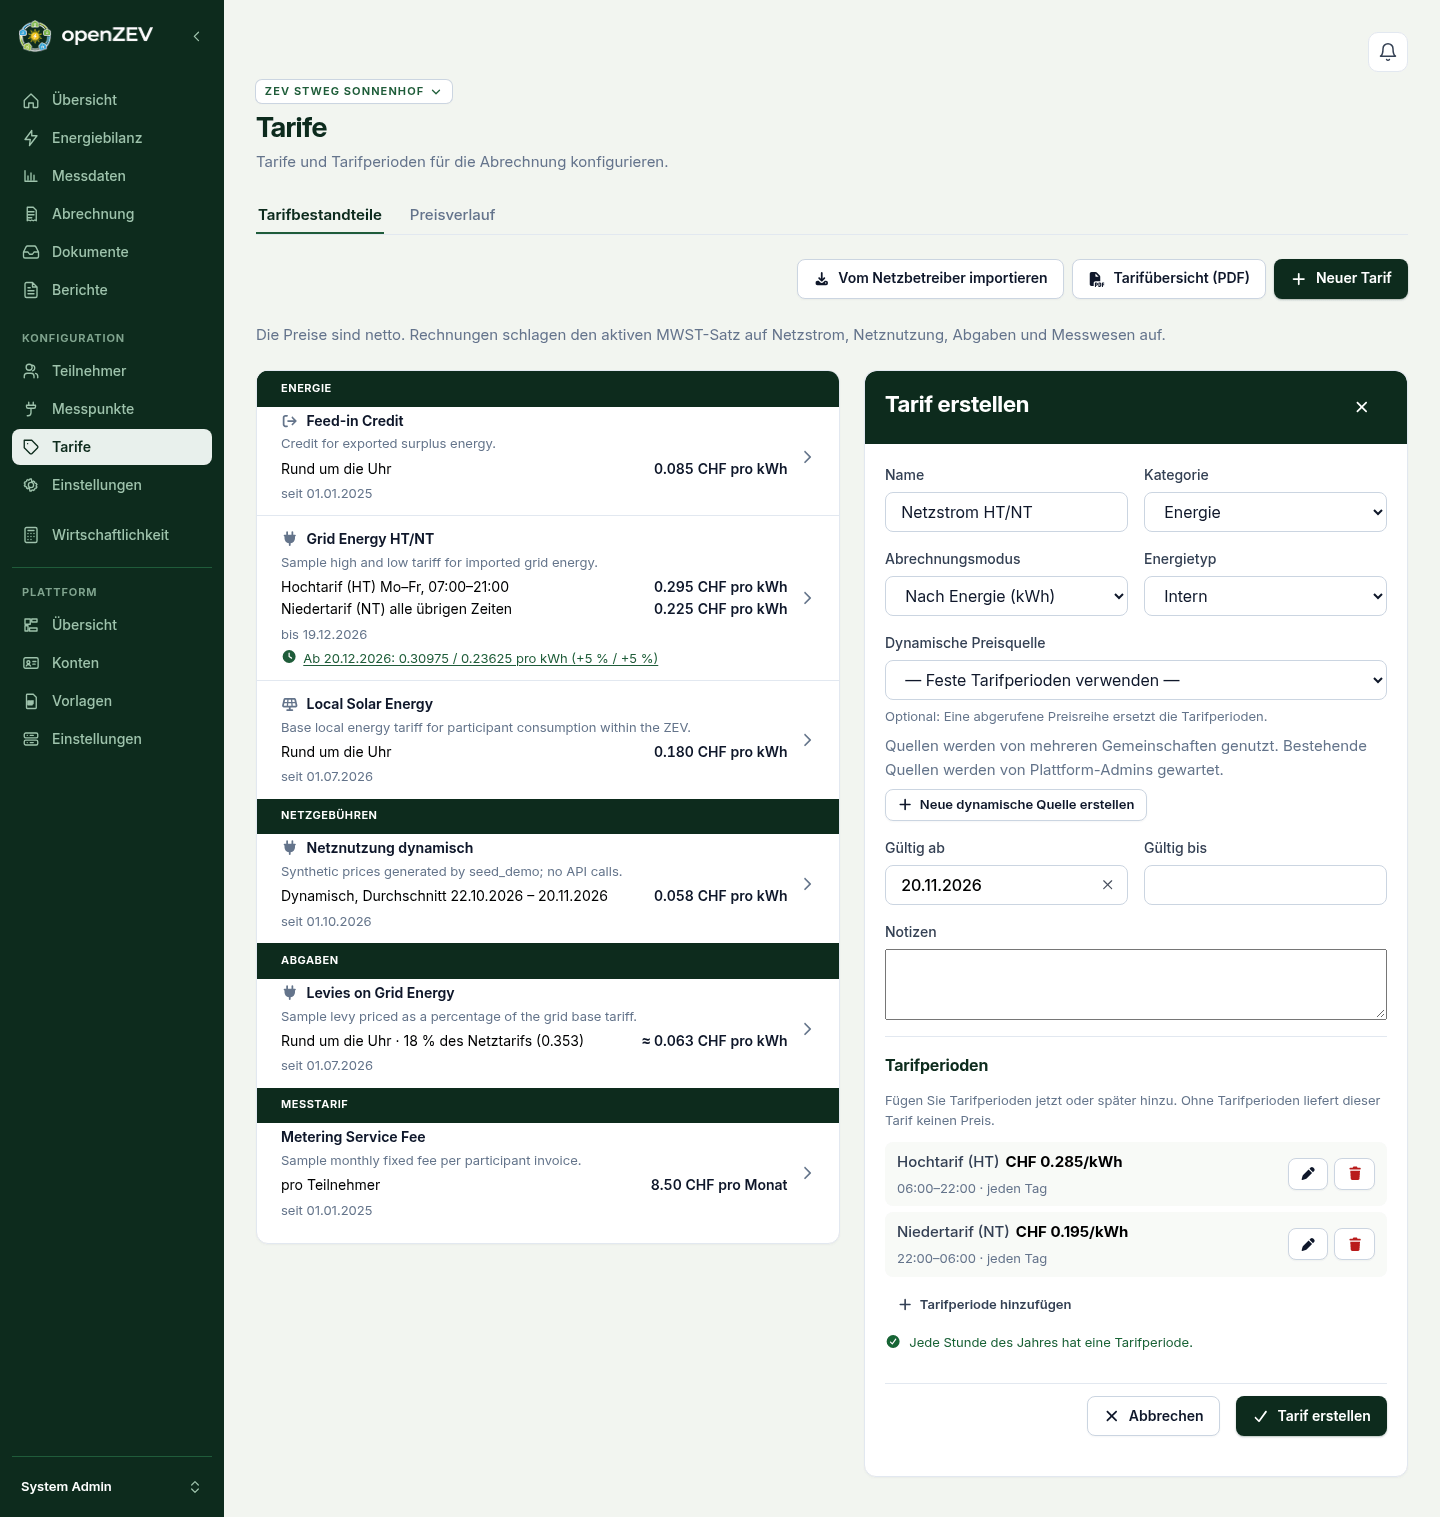
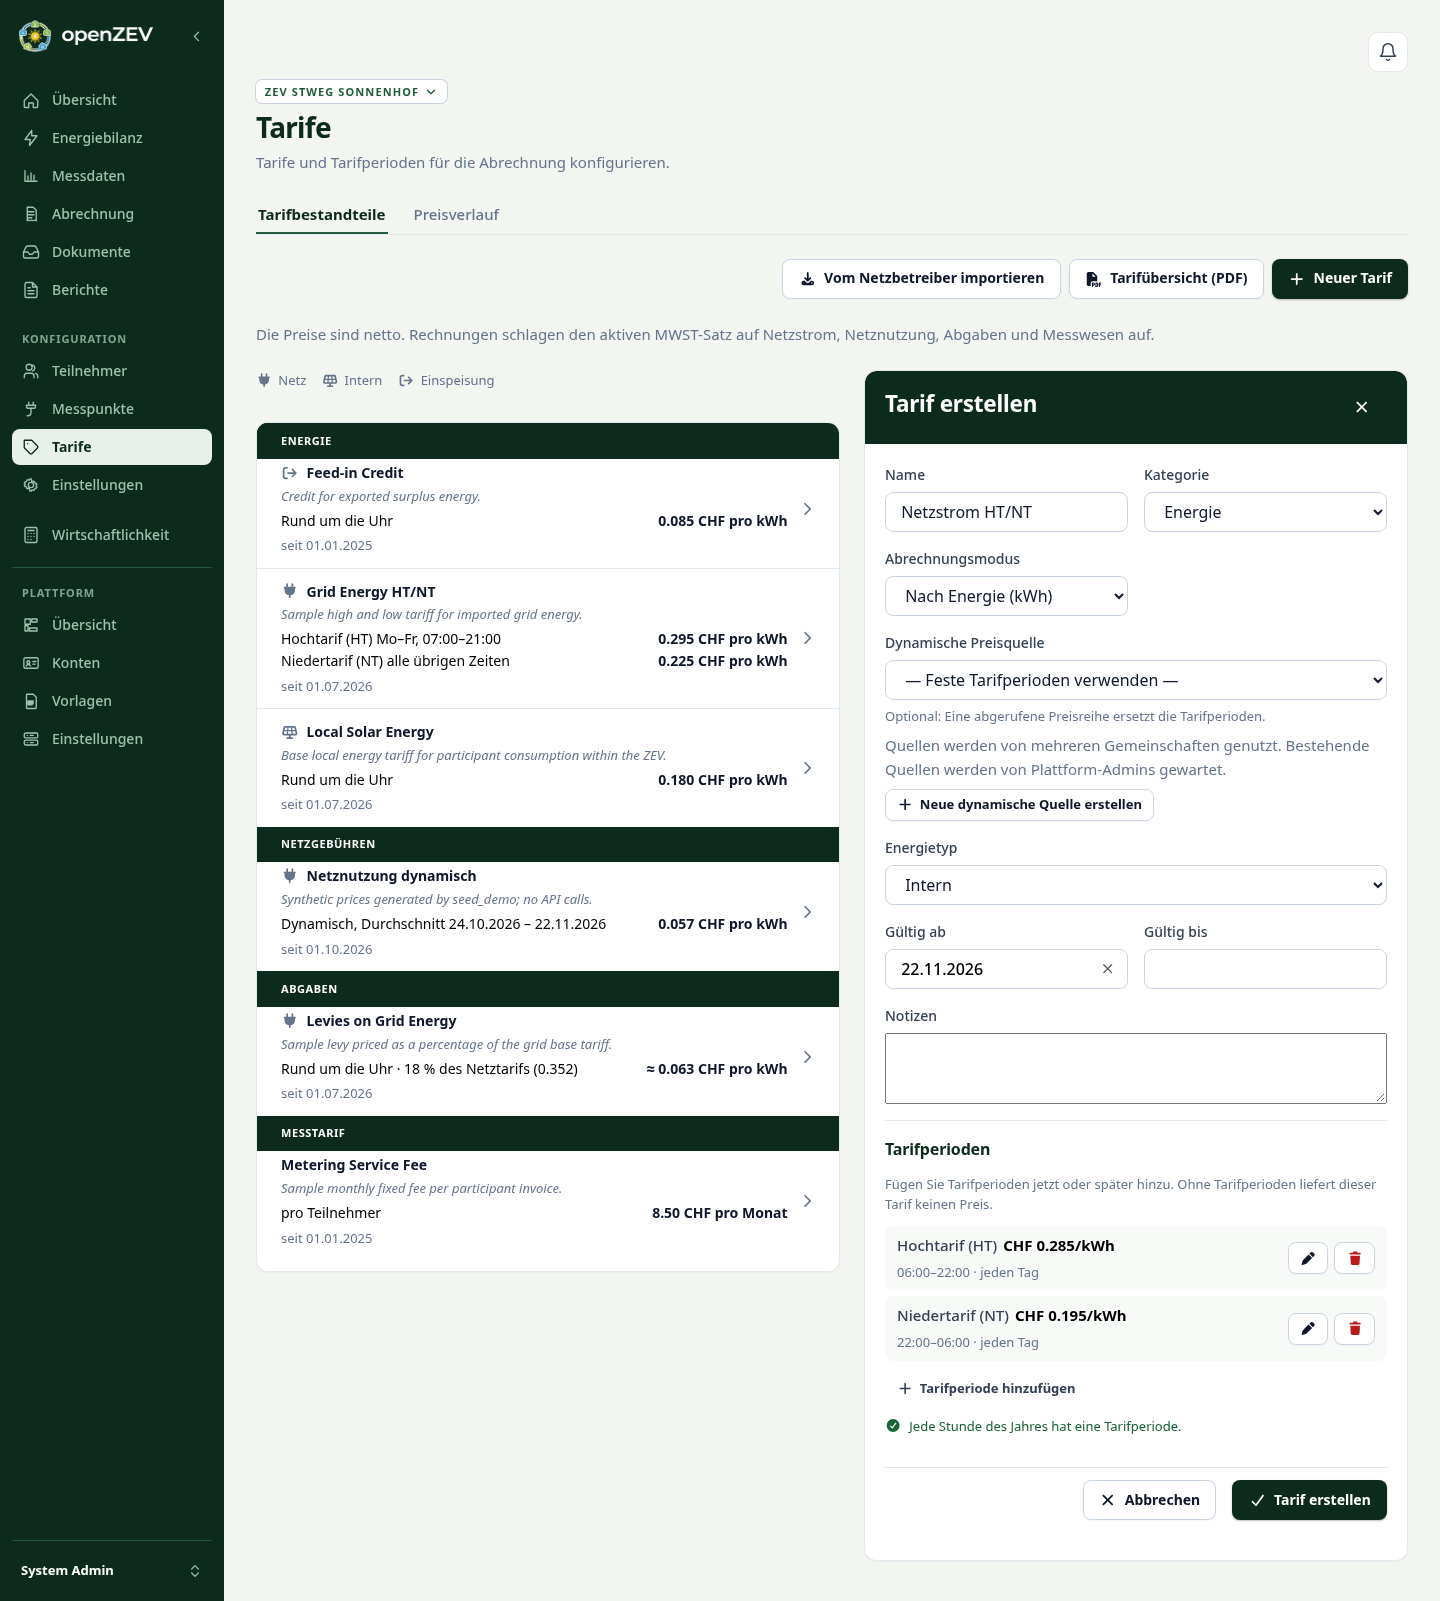
fix(tariffs): put the dynamic source before the energy type it sets
Picking a dynamic source sets the energy type, but the create form showed
the energy type above it, so a field changed under the reader's eyes.
Order the form source first, then energy type (on its own row), then the
minimum price and the double-counting warning that depend on both.

diff --git a/frontend/src/features/tariffs/TariffForm.tsx b/frontend/src/features/tariffs/TariffForm.tsx
@@ -203,16 +203,6 @@ export function TariffForm({
                 <option value="shared_yearly_fee">{t('pages.tariffs.billingModes.shared_yearly_fee')}</option>
               </select>
             </label>
-            {(billingMode === 'energy' || billingMode === 'percentage_of_energy') && (
-              <label>
-                <span>{t('pages.tariffs.form.energyType')}</span>
-                <select {...form.register('energy_type')}>
-                  <option value="local">{t('pages.tariffs.energyTypes.local')}</option>
-                  <option value="grid">{t('pages.tariffs.energyTypes.grid')}</option>
-                  <option value="feed_in">{t('pages.tariffs.energyTypes.feed_in')}</option>
-                </select>
-              </label>
-            )}
           </>
         )}
 
@@ -237,29 +227,6 @@ export function TariffForm({
               </small>
             </label>
             <p className="muted m-0">{t('pages.tariffs.form.sharedSourceHint')}</p>
-            {energyType === 'feed_in' && dynamicSourceId && (
-              <label>
-                <span>{t('pages.tariffs.form.minimumPrice')}</span>
-                <input
-                  type="number"
-                  step="0.00001"
-                  min="0"
-                  placeholder={t('pages.tariffs.form.minimumPricePlaceholder')}
-                  {...form.register('minimum_price_chf_per_kwh')}
-                />
-                <small className="muted">{t('pages.tariffs.form.minimumPriceHint')}</small>
-                {fieldError('minimum_price_chf_per_kwh')}
-              </label>
-            )}
-            {selectedSourceAggregatedTypes.length > 0 && (
-              <div className="warning-banner">
-                {t('pages.dynamicSources.form.doubleCountingWarning', {
-                  components: selectedSourceAggregatedTypes
-                    .map((type) => t(`pages.dynamicSources.types.${type}` as Parameters<typeof t>[0]))
-                    .join(', '),
-                })}
-              </div>
-            )}
             {!isVersion && (
               <div>
                 <button
@@ -272,6 +239,43 @@ export function TariffForm({
                 </button>
               </div>
             )}
+          </div>
+        )}
+
+        {/* The energy type follows the dynamic source: picking a source sets it. */}
+        {!isVersion && (billingMode === 'energy' || billingMode === 'percentage_of_energy') && (
+          <label className={billingMode === 'energy' ? 'grid-span-full' : undefined}>
+            <span>{t('pages.tariffs.form.energyType')}</span>
+            <select {...form.register('energy_type')}>
+              <option value="local">{t('pages.tariffs.energyTypes.local')}</option>
+              <option value="grid">{t('pages.tariffs.energyTypes.grid')}</option>
+              <option value="feed_in">{t('pages.tariffs.energyTypes.feed_in')}</option>
+            </select>
+          </label>
+        )}
+
+        {billingMode === 'energy' && energyType === 'feed_in' && dynamicSourceId && (
+          <label className="grid-span-full">
+            <span>{t('pages.tariffs.form.minimumPrice')}</span>
+            <input
+              type="number"
+              step="0.00001"
+              min="0"
+              placeholder={t('pages.tariffs.form.minimumPricePlaceholder')}
+              {...form.register('minimum_price_chf_per_kwh')}
+            />
+            <small className="muted">{t('pages.tariffs.form.minimumPriceHint')}</small>
+            {fieldError('minimum_price_chf_per_kwh')}
+          </label>
+        )}
+
+        {billingMode === 'energy' && selectedSourceAggregatedTypes.length > 0 && (
+          <div className="warning-banner grid-span-full">
+            {t('pages.dynamicSources.form.doubleCountingWarning', {
+              components: selectedSourceAggregatedTypes
+                .map((type) => t(`pages.dynamicSources.types.${type}` as Parameters<typeof t>[0]))
+                .join(', '),
+            })}
           </div>
         )}
 
